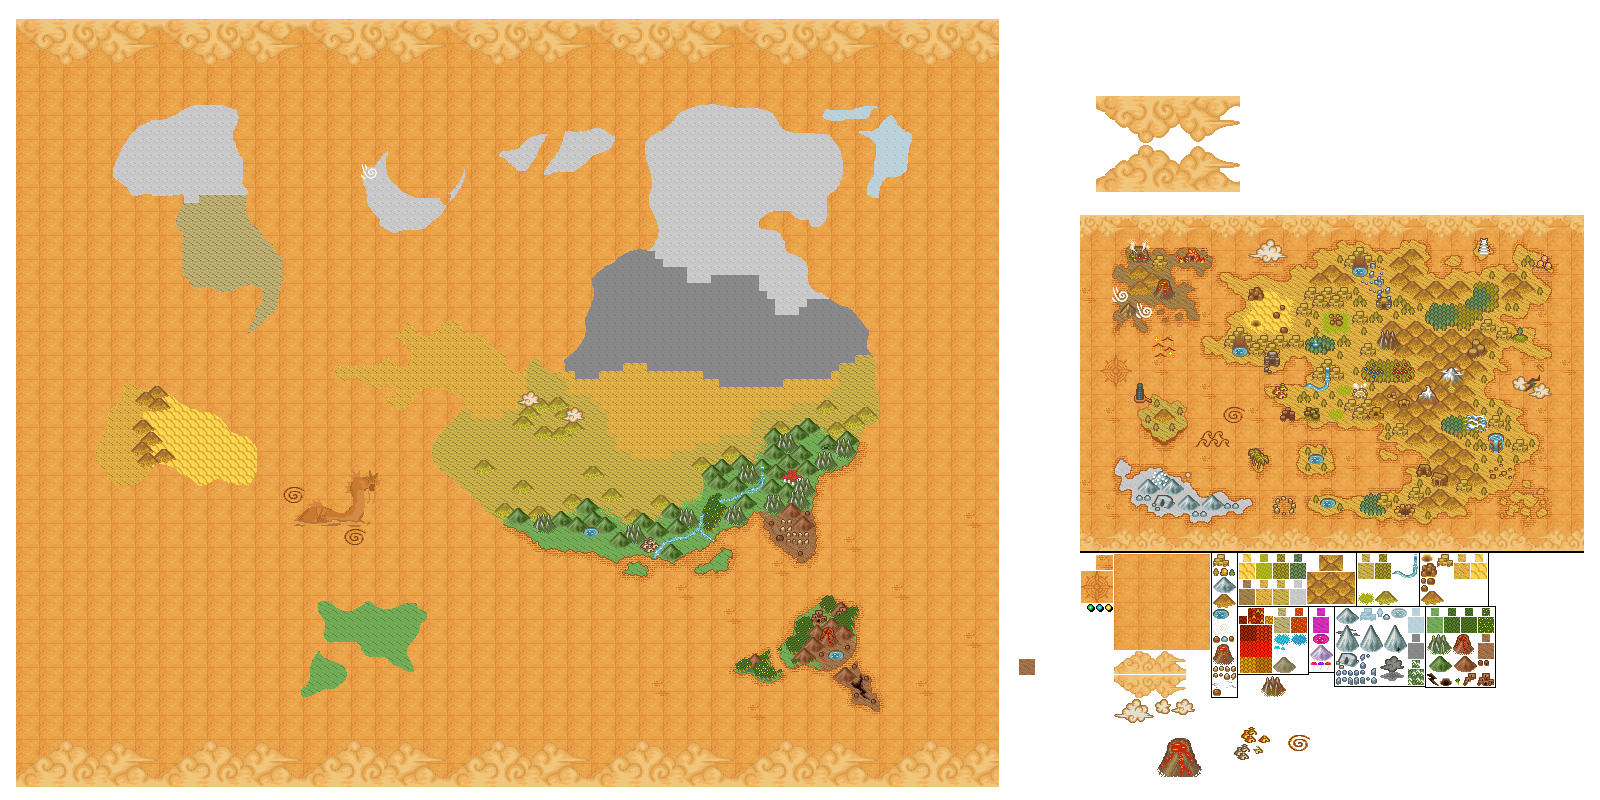
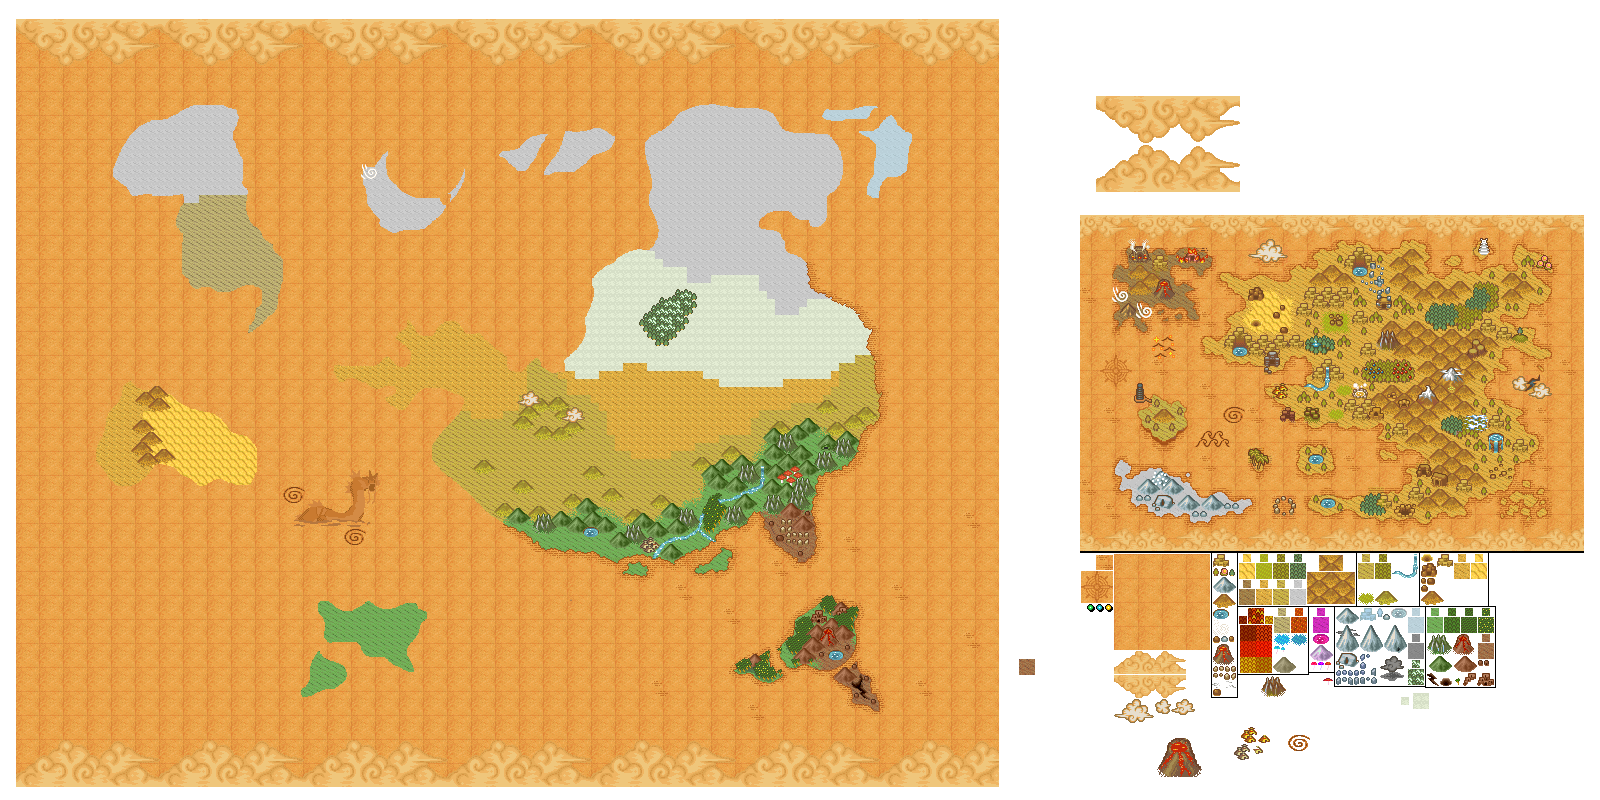
Update map; Add 4 places; Orginizational changes

Changed region(s): [[0.3438, 0.3125, 0.5625, 0.5], [0.875, 0.8438, 0.9062, 0.9062], [0.4688, 0.5938, 0.5, 0.625]]

diff --git a/map/index.html b/map/index.html
@@ -9,15 +9,21 @@
     <div id="container">
       <div id=map></div>
       <div id="main">
-        <div style="left: 545px; top: 404px;" class="node liber"  >The Citadel</div>
+        <div style="left: 766px; top: 282px;" class="node dungeon">Glacier Maze</div>
+        
+        <div style="left: 545px; top: 403px;" class="node liber"  >The Citadel</div>
+        <div style="left: 205px; top: 432px;" class="node liber"  >Sandstorm Village</div>
+        <div style="left: 719px; top: 453px;" class="node liber"  >The H.I.V.E.</div>
+        <div style="left: 323px; top: 351px;" class="node liber"  >Gale</div>
+        <div style="left: 645px; top: 450px;" class="node liber"  >Everdusk Town</div>
         
         <div style="left: 759px; top: 303px;" class="node themis" >Castelia</div>
-        <div style="left: 766px; top: 282px;" class="node dungeon">Glacier Maze</div>
-        <div style="left: 205px; top: 432px;" class="node liber"  >Sandstorm Village</div>
         <div style="left: 140px; top: 400px;" class="node themis" >Siegestead</div>
-        <div style="left: 719px; top: 453px;" class="node liber"  >The H.I.V.E.</div>
         <div style="left: 628px; top: 526px;" class="node themis" >Engletarer</div>
-        <div style="left: 323px; top: 351px;" class="node liber"  >Gale</div>
+        <div style="left: 581px; top: 273px;" class="node themis" >Hyacinth</div>
+        <div style="left: 552px; top: 337px;" class="node themis" >Hyacinth</div>
+        <div style="left: 680px; top: 231px;" class="node themis" >Serendi</div>
+        <div style="left: 785px; top: 490px;" class="node themis" >Lapis City</div>
       </div>
     </div>
     <br>
